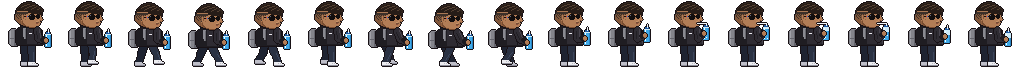
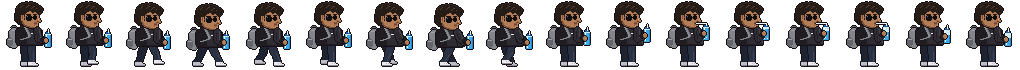
Character: full hair, clear nose and lips, backpack worn properly
Drops the undercut for full, messy hair with the fringe falling forward,
adds eyebrows, a nose that breaks the face outline, upper and lower lips
under a light moustache, and a slimmer face with the defined jawline.
The backpack is now a rounded bag on the back with a grab handle, zip
and front pocket, and its strap runs over the near shoulder and back
under the arm. The straw now ends at the lips.

diff --git a/tools/make_character.py b/tools/make_character.py
@@ -26,14 +26,11 @@ FW, FH = 60, 70  # frame size
 GROUND = 66  # y of the shoe soles
 
 PAL = {
-    # hair
-    "H": (38, 28, 23), "M": (52, 39, 31), "L": (84, 64, 50),
-    "F": (60, 48, 41),  # undercut stubble
-    "f": (128, 86, 58),  # faded skin on the undercut
-    "P": (170, 120, 84),  # hard part line
+    # hair and brows
+    "H": (38, 28, 23), "M": (52, 39, 31), "L": (84, 64, 50), "e": (30, 22, 18),
     # skin
     "S": (178, 125, 86), "s": (146, 96, 62), "T": (199, 146, 104), "j": (120, 76, 48),
-    "E": (132, 84, 54), "N": (110, 66, 40), "m": (116, 78, 55), "O": (140, 78, 58),
+    "E": (132, 84, 54), "N": (110, 66, 40), "m": (138, 94, 66), "O": (122, 62, 48), "o": (166, 100, 78),
     # sunglasses
     "G": (18, 14, 14), "g": (104, 108, 124), "R": (214, 58, 44), "B": (58, 123, 213),
     # jacket
@@ -51,57 +48,58 @@ SKIN, SKIN_DARK = (178, 125, 86), (146, 96, 62)
 BOTTLE, BOTTLE_HI, WATER, WATER_DARK, CAP = (206, 236, 250), (240, 250, 255), (64, 170, 232), (40, 132, 196), (30, 90, 160)
 STRAW = (238, 242, 246)
 
-# 28 x 26 head, facing right. Hair: 80/20 side part (the hard part line P) with the long
-# top swept over and forward, and a faded undercut (F/f) around the side and back.
-# Jaw: sharp corner under the ear and a shadowed jawline (j) running to the chin.
+# 28 x 26 head, facing right, three-quarter view. Full, messy hair with the fringe falling
+# forward over the forehead; eyebrows over round shades; a straight nose that breaks the
+# face outline; upper and lower lip under a light moustache; a slim face with a defined
+# jawline (j) running from under the ear to the chin.
 HEAD = [
-    "...........MMMMMM...........",
-    "........MMMHHHHHHMMM........",
-    "......MMHHHHLLLHHHHMM.......",
-    ".....MHHHLLLHHHHHLLLHMM.....",
-    "....MHHLLHHHHHLLLHHHHLMM....",
-    "...MHHLHHHHHLLHHHHHLLHHMMM..",
-    "..MHHHHHHHLLHHHHHLLHHHHHLMM.",
-    "..HHHHHHHLHHHHHHLHHHHHLLHHMM",
+    "..........MMM.MMMM..........",
+    "......MMMMHHHMMHHHMMM.......",
+    "....MMHHHHHHHHHHHHHHHMM.....",
+    "...MHHHLHHHHHLLHHHHHHHHM....",
+    "..MHHHLHHHHHLHHHHHLLHHHHMM..",
+    "..MHHLHHHHHLHHHHHLHHHHHHHHM.",
+    ".MHHHHHHHHHHHHHHLHHHHLHHHHHM",
     ".MHHHHHHHHHHHHHHHHHHHHHHHHHM",
-    ".HPPPPPPPPPPPHHHHHHHHHHHHHMM",
-    ".FFFFFFFFFFFFHHHHHHHHHHHHHH.",
-    ".FFFFFFFFFFFFSSSHHHHHHHMHHH.",
-    "FfFfFfFfFfFSSSSGGGGSSSGGHHH.",
-    "fFfFfFfSESSSSSGgGGGGSGGGGSH.",
-    "fFffFffSEGGRBGGGGGGGGGGGGS..",
-    "ffFffFfSESSSSSGGGGGGSGGGGSS.",
-    "fffFfffSESSSSSGGGGGGSSGGSSS.",
-    "ffffffFSSSsSSSSGGGGSSSSSSSSS",
-    ".fffffSsSSSSSSSSSSSSSSSTSNS.",
-    "..ffffsjSSSSSSSSSSSSSTTSS...",
-    "...fffsjSSSSSSSSSSSSSmmmSS..",
-    "....ffsjjSSSSSSSSSSSSOOSS...",
-    "......ssjjSSSSSSSSSSSSSSS...",
-    "........jjjSSSSSSSSSSSSS....",
-    "...........jjjSSSSSSSSS.....",
-    "..............jjjjjjj.......",
+    ".HHHHHHHHHHHHHHHHHHHHHHHHHHH",
+    ".HHHHHHHHHHHHHSSHHHHHHHHHHH.",
+    ".HHHHHHHHHHHSSSSSHHSSHHHHHM.",
+    "HHHHHHHHHHHSSSSSSSSSSSHHHM..",
+    "HHHHHHHHHHSeeeeeSSeeeeSHH...",
+    "HHHHHHSESHSSGGGGSSSGGSSS....",
+    "HHHHHHSESHSGgGGGGSGGGGSS....",
+    "HHHHHHSESRBGGGGGGGGGGGSS....",
+    "HHHHHHSESHSGGGGGGSGGGGSST...",
+    "HHHHHHSSSHSGGGGGGSSGGSSTS...",
+    "HHHHHHSsSSSSGGGGSSSSSSsSTS..",
+    ".HHHHHHjSSSSSSSSSSSSSsNNSS..",
+    "..HHHHHjsSSSSSSSSSSmmmSS....",
+    "...HHHHsjSSSSSSSSSSOOOS.....",
+    "........jjSSSSSSSSSoooS.....",
+    ".........sjjSSSSSSSsSST.....",
+    "...........sjjjSSSSSTS......",
+    "..............sjjjjjj.......",
 ]
 
-# 30 x 22 oversized jacket with a high standing collar, storm-flap line, logo patch and the
-# grey backpack strap over the near shoulder.
+# 30 x 22 oversized jacket with a high standing collar and storm-flap line. The backpack
+# strap and logo patch are painted on top (STRAP, LOGO below).
 TORSO = [
     "........DDDDDJJJJJJ...........",
     ".......DDDDDDJJJJJJJU.........",
     ".......DDDDDCCJJJJJJU.........",
     ".......DDDDDCCCJJJJJJU........",
     "......DDDDDDCCJJJJJJJJU.......",
-    "....DDDDDAAADJJJJJJJJJJJJU....",
-    "...DDDDDDAAaDJJJJJJZJJJJJJU...",
-    "..DDDDDDDAAaDJJJJJJZJJJJJJJU..",
-    "..DDDDDDDAAaDJJJJJJZJJJJJJJU..",
-    "..DDDDDDDAAaDJJJJJJJZJJJJJJU..",
-    "..DDDDDDDAAaDJJWWWJJZJJJJJJU..",
-    "..DDDDDDDAAaDJJJJJJJZJJJJJJU..",
-    "..DDDDDDDAAaDJJJJJJJJZJJJJJU..",
-    "..DDDDDDDAAaDJJJJJJJJZJJJJJU..",
-    "..DDDDDDDDAaDJJJJJJJJZJJJJJJU.",
-    "..DDDDDDDDAaDJJJJJJJJJZJJJJJU.",
+    "....DDDDDDDDDJJJJJJJJJJJJU....",
+    "...DDDDDDDDDDJJJJJJZJJJJJJU...",
+    "..DDDDDDDDDDDJJJJJJZJJJJJJJU..",
+    "..DDDDDDDDDDDJJJJJJZJJJJJJJU..",
+    "..DDDDDDDDDDDJJJJJJJZJJJJJJU..",
+    "..DDDDDDDDDDDJJJJJJJZJJJJJJU..",
+    "..DDDDDDDDDDDJJJJJJJZJJJJJJU..",
+    "..DDDDDDDDDDDJJJJJJJJZJJJJJU..",
+    "..DDDDDDDDDDDJJJJJJJJZJJJJJU..",
+    "..DDDDDDDDDDDJJJJJJJJZJJJJJJU.",
+    "..DDDDDDDDDDDJJJJJJJJJZJJJJJU.",
     "..DDDDDDDDDDDJJJJJJJJJZJJJJJU.",
     "..DDDDDDDDDDDJJJJJJJJJZJJJJJU.",
     "..DDDDDDDDDDDJJJJJJJJJJZJJJJU.",
@@ -109,6 +107,14 @@ TORSO = [
     "...DDDDDDDDDDJJJJJJJJJJZJJJJU.",
     "...DDDDDDDDDDDDDDDDDDDDDDDDDD.",
 ]
+
+# Backpack strap: over the near shoulder, down the chest, then back under the arm to the bag.
+STRAP = [
+    (4, (10, 12)), (5, (11, 13)), (6, (11, 13)), (7, (12, 14)), (8, (12, 14)), (9, (13, 15)),
+    (10, (13, 15)), (11, (14, 16)), (12, (14, 16)), (13, (14, 16)), (14, (12, 15)), (15, (9, 12)),
+    (16, (6, 9)),
+]
+LOGO = (10, (17, 19))
 
 HEAD_AT = (15, 2)
 TORSO_AT = (14, 23)
@@ -121,7 +127,7 @@ UPPER_ARM, FOREARM = 8, 8
 # Holding: bottle at the hip. Drinking: bottle up at the chin so the straw reaches the mouth.
 HAND_HOLD = (46, 40.5)
 HAND_DRINK = (44, 33)
-MOUTH = (HEAD_AT[0] + 22, HEAD_AT[1] + 21)
+MOUTH = (HEAD_AT[0] + 21, HEAD_AT[1] + 21)
 
 
 def blank():
@@ -135,6 +141,17 @@ def grid_layer(rows, ox, oy):
             if c != ".":
                 layer.putpixel((ox + x, oy + y), PAL[c] + (255,))
     return layer
+
+
+def torso_rows():
+    rows = [list(r) for r in TORSO]
+    for y, (x0, x1) in STRAP:
+        for x in range(x0, x1 + 1):
+            rows[y][x] = "a" if x == x1 else "A"
+    y, (x0, x1) = LOGO
+    for x in range(x0, x1 + 1):
+        rows[y][x] = "W"
+    return ["".join(r) for r in rows]
 
 
 def outlined(layer):
@@ -167,12 +184,16 @@ def polar(origin, length, deg):
 
 
 def draw_backpack(dy):
+    """Side view of a backpack worn on the back: rounded top, grab handle, zip, front pocket."""
     layer = blank()
     d = ImageDraw.Draw(layer)
-    d.rounded_rectangle([9, 29 + dy, 17, 45 + dy], radius=3, fill=PACK)
-    d.line([(10, 31 + dy), (10, 43 + dy)], fill=PACK_HI)
-    d.rectangle([14, 30 + dy, 17, 45 + dy], fill=PACK_DARK)
-    d.line([(10, 38 + dy), (15, 38 + dy)], fill=PACK_DARK)  # pocket seam
+    d.rounded_rectangle([9, 28 + dy, 18, 47 + dy], radius=4, fill=PACK)
+    d.line([(11, 30 + dy), (16, 30 + dy)], fill=PACK_HI)  # zip along the top
+    d.line([(9, 34 + dy), (9, 44 + dy)], fill=PACK_DARK)  # shaded outer side
+    d.rounded_rectangle([7, 37 + dy, 12, 46 + dy], radius=2, fill=PACK_DARK)  # front pocket
+    d.line([(8, 39 + dy), (11, 39 + dy)], fill=PACK_HI)  # pocket zip
+    d.line([(12, 26 + dy), (15, 26 + dy)], fill=PACK_DARK)  # grab handle
+    d.point([(11, 27 + dy), (16, 27 + dy)], fill=PACK_DARK)
     return outlined(layer)
 
 
@@ -271,7 +292,7 @@ def frame(leg_phase=None, lift=0.0, level=1.0, sipping=False, bubbles=()):
     hb, hf = HIPS["back"], HIPS["front"]
     img.alpha_composite(draw_leg((hb[0], hb[1] + dy), back, lift_b, dark=True))
     img.alpha_composite(draw_leg((hf[0], hf[1] + dy), front, lift_f, dark=False))
-    img.alpha_composite(outlined(grid_layer(TORSO, TORSO_AT[0], TORSO_AT[1] + dy)))
+    img.alpha_composite(outlined(grid_layer(torso_rows(), TORSO_AT[0], TORSO_AT[1] + dy)))
     img.alpha_composite(outlined(grid_layer(HEAD, HEAD_AT[0], HEAD_AT[1] + dy)))
     shoulder = (SHOULDER[0], SHOULDER[1] + dy)
     hand = (

diff --git a/README.md b/README.md
@@ -27,7 +27,7 @@ Chrome shows "Read and change all your data on all websites" at install. That's 
 
 ## The character
 
-The buddy is a pixel portrait of ayush: 80/20 side part with a faded undercut, round shades with the red and blue temple, a defined jawline, the black high-collar jacket with its logo patch, and the grey backpack. It walks with real leg swings, and on **Sip** the arm lifts the bottle to the chin and drinks through the straw while the water level drops.
+The buddy is a pixel portrait of ayush: full, messy dark hair with the fringe falling forward, round shades with the red and blue temple, a straight nose, lips under a light moustache, a defined jawline, the black high-collar jacket with its logo patch, and a grey backpack worn over the shoulder. It walks with real leg swings, and on **Sip** the arm lifts the bottle to the chin and drinks through the straw while the water level drops.
 
 `tools/make_character.py` draws all of it: the head and jacket are letter grids (one letter per pixel), and the legs, arm and bottle are posed per frame. Run `python3 tools/make_character.py` after editing to rebuild `assets/character-sheet.png`.
 
